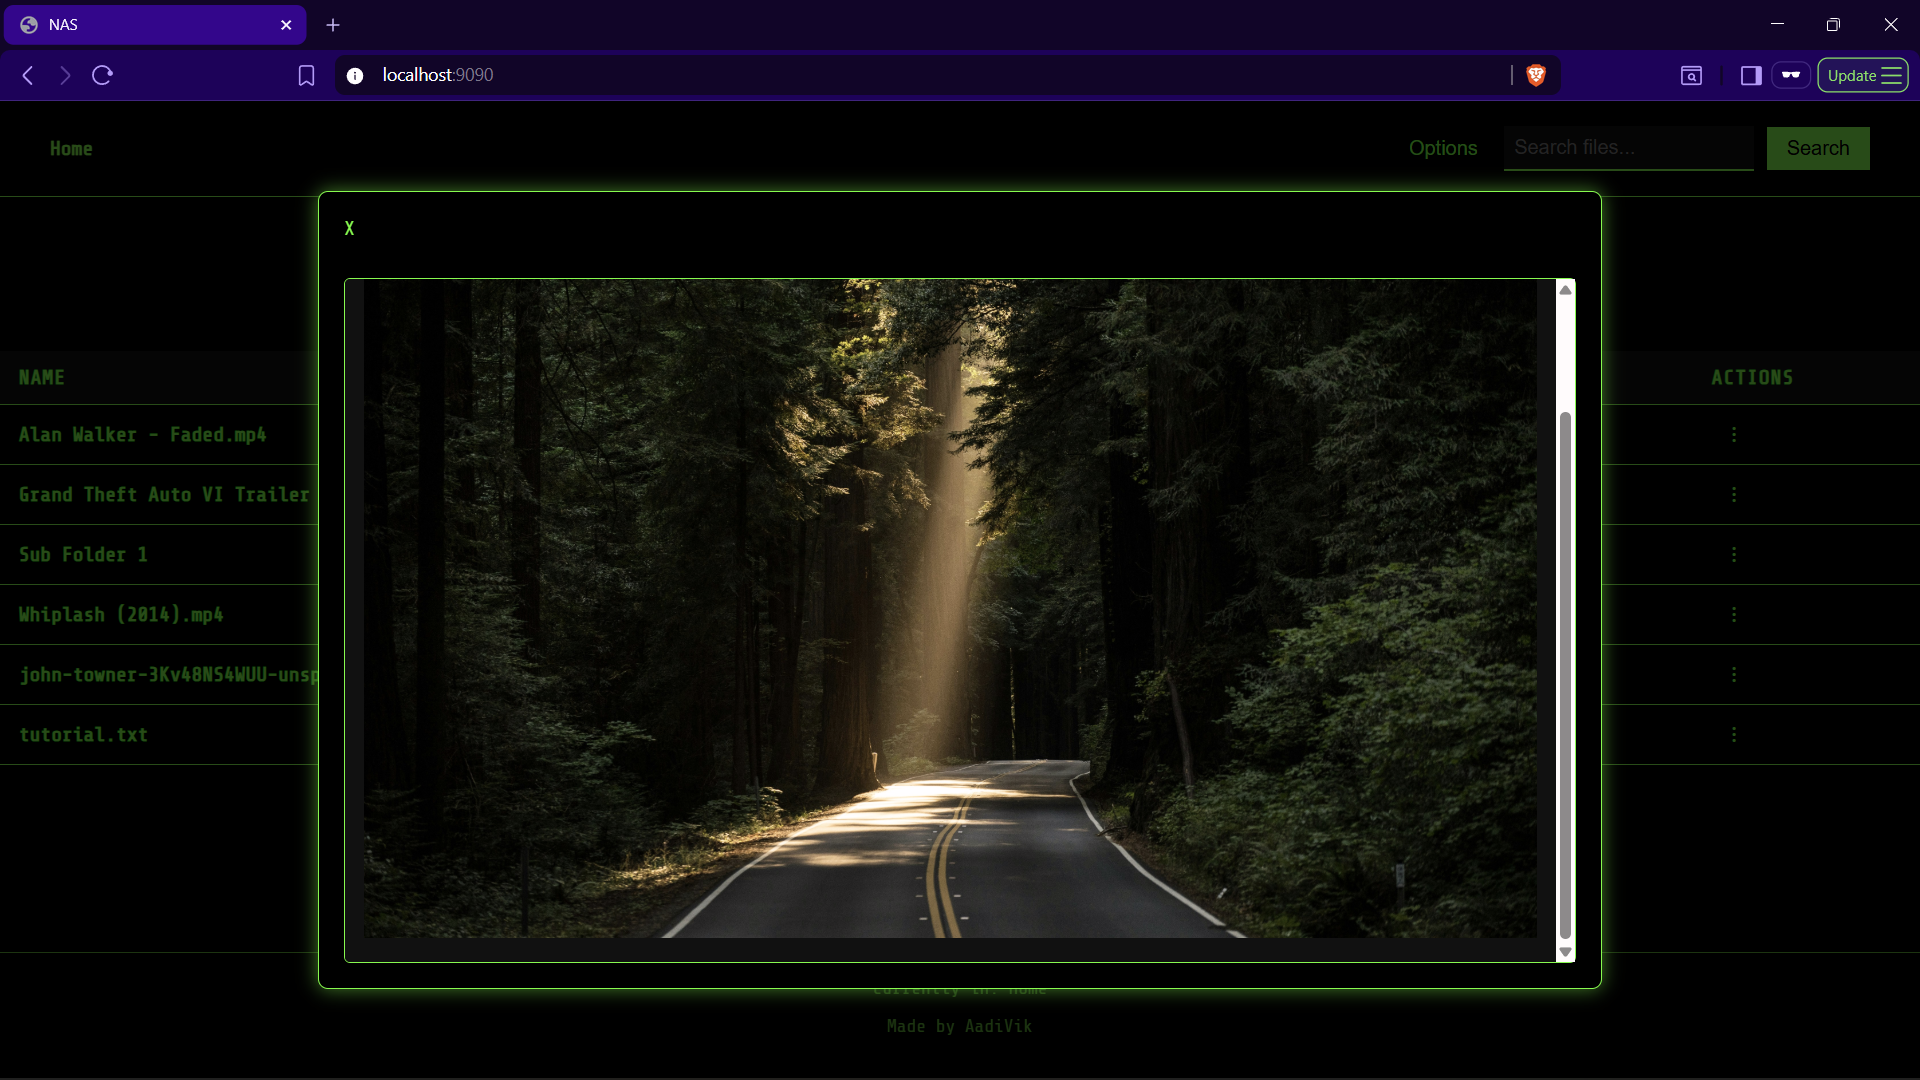
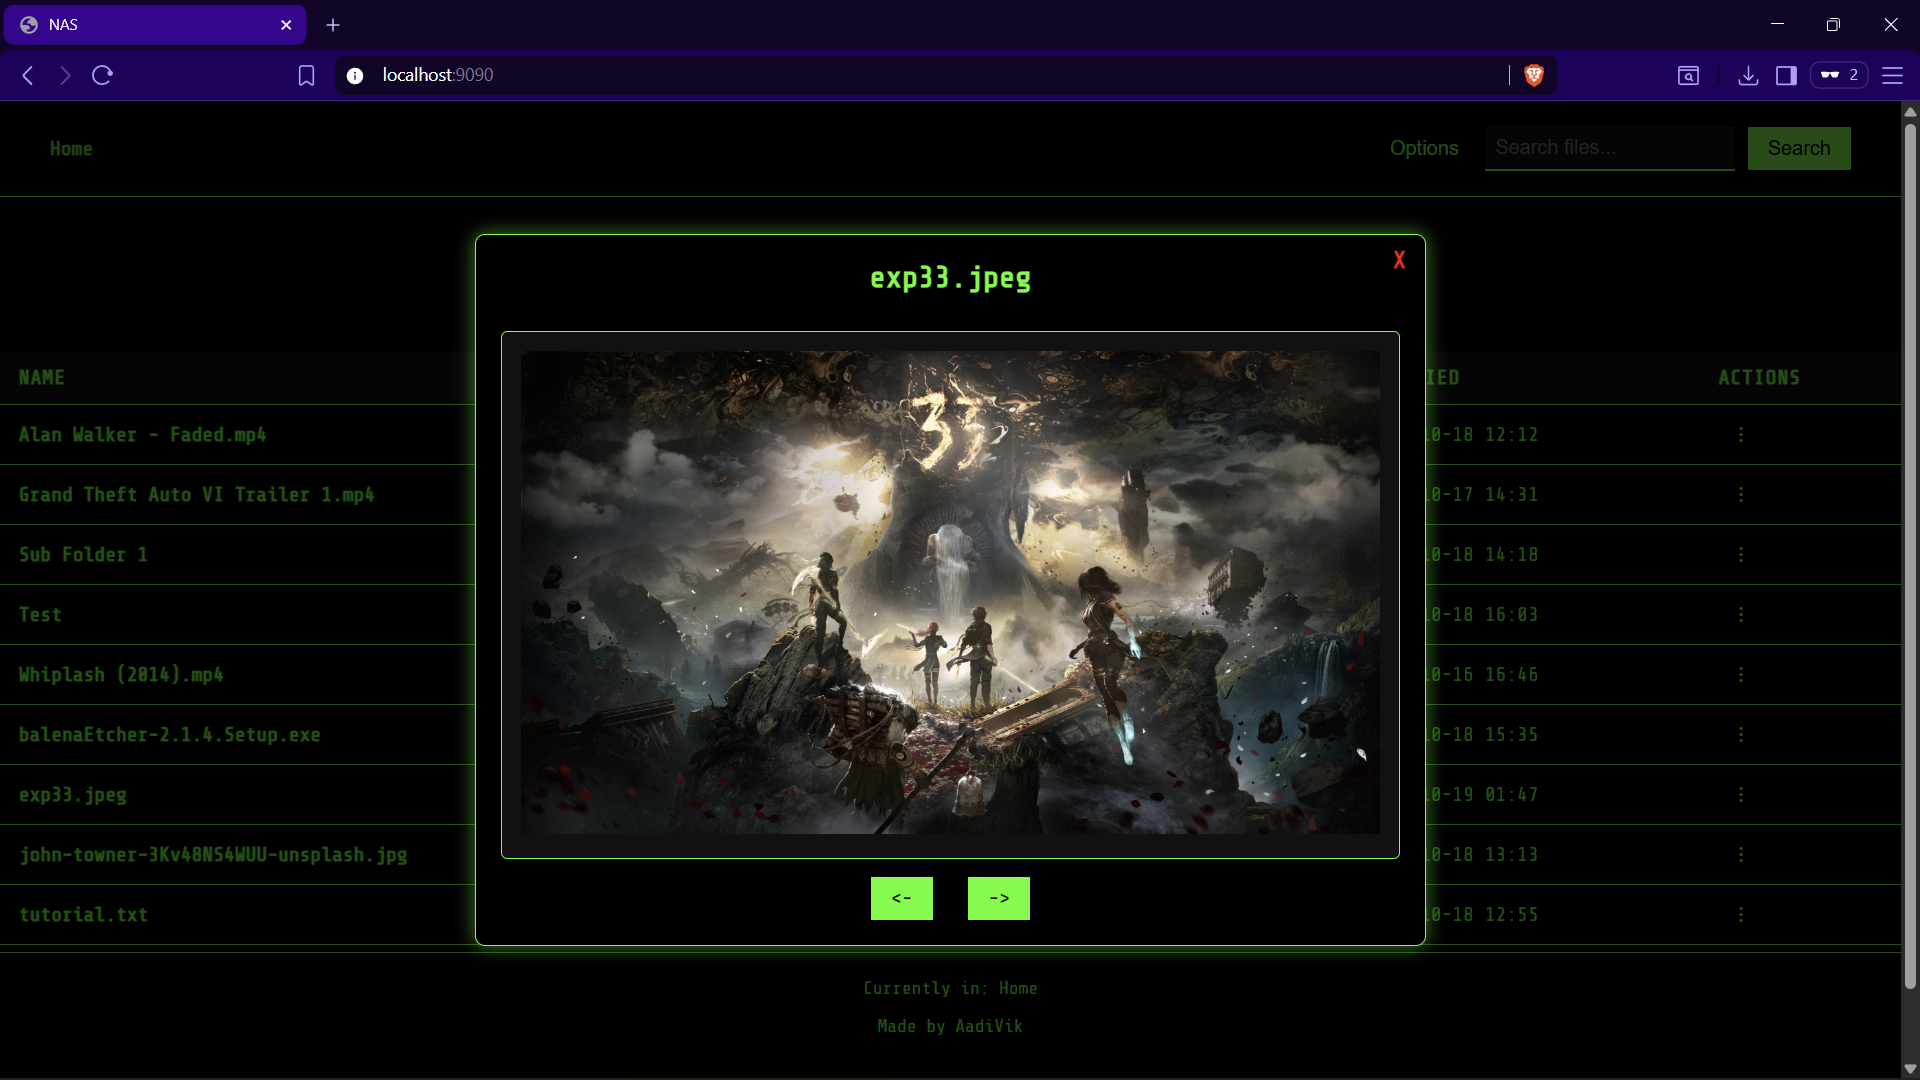
Updated README md file with image preview navigation info

diff --git a/README.md b/README.md
@@ -90,7 +90,7 @@ Network Attached Storage on a Python server running in Ubuntu
 
 ![Preview_Functionality_Video](assets/Preview_Functionality_Video.png)
 
-## Preview Functionality (Image)
+## Preview Functionality (Image) with Navigation
 
 ![Preview_Functionality_Image](assets/Preview_Functionality_Image.png)
 
